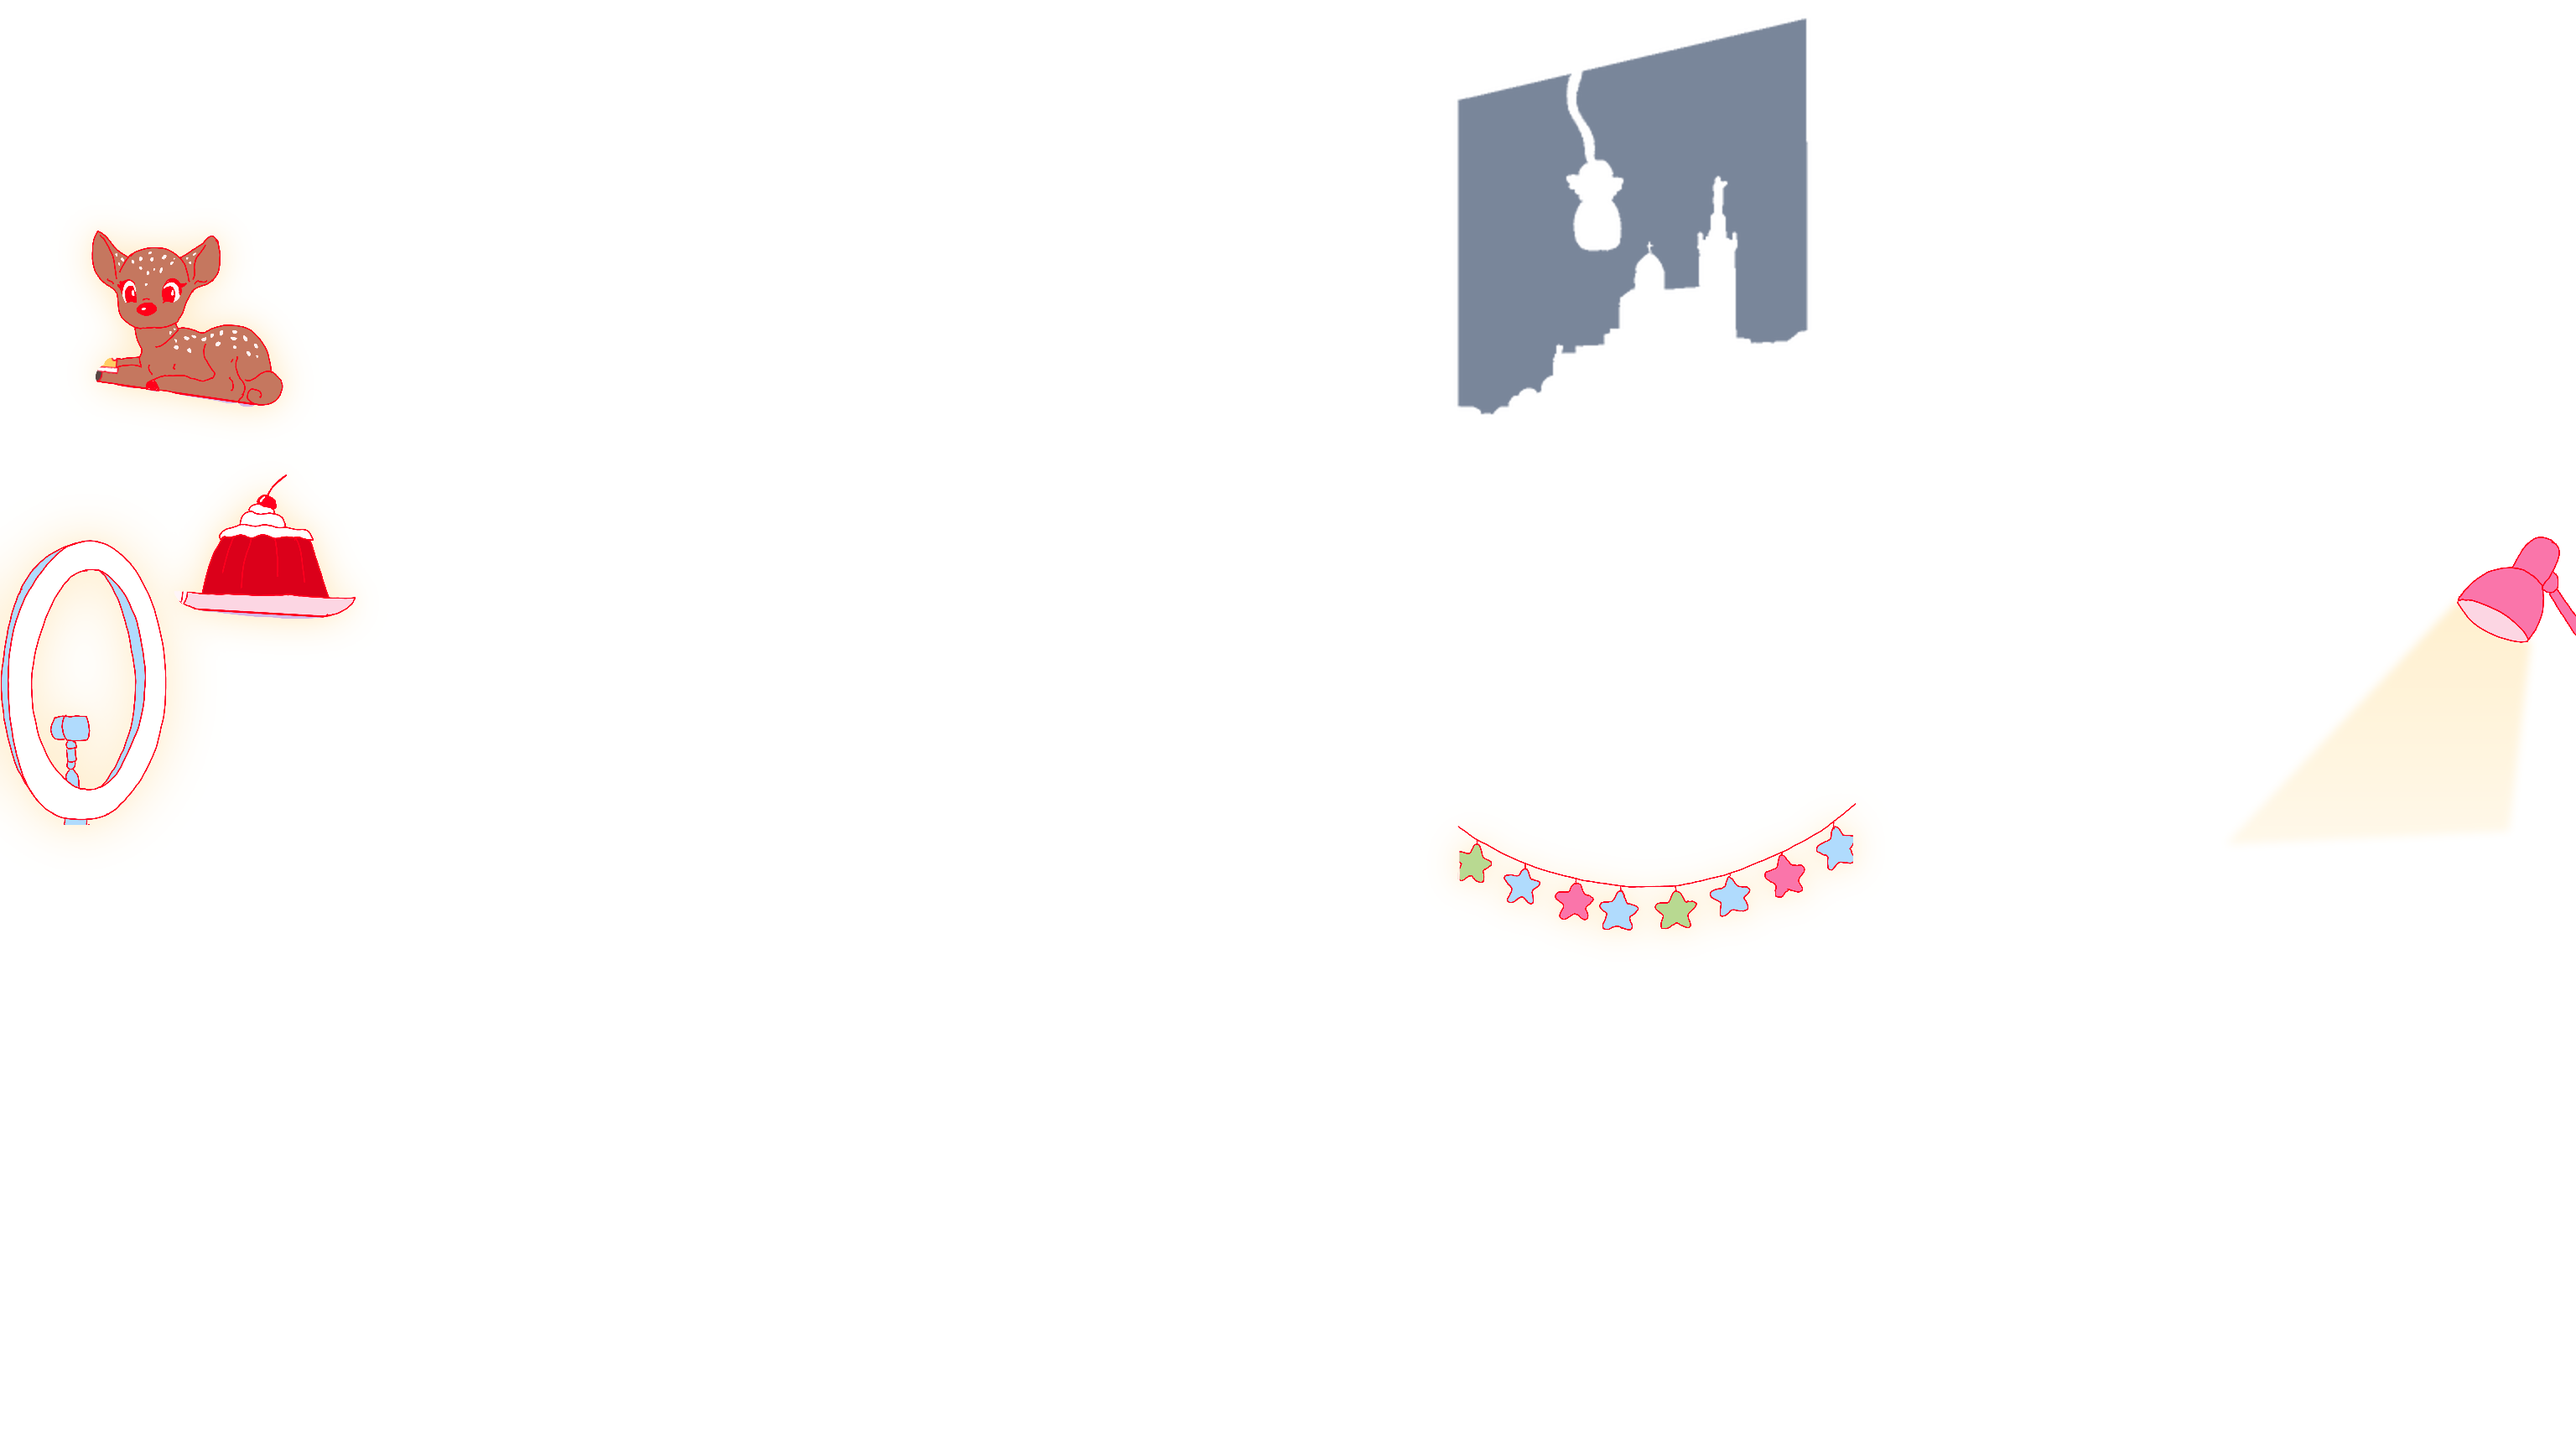
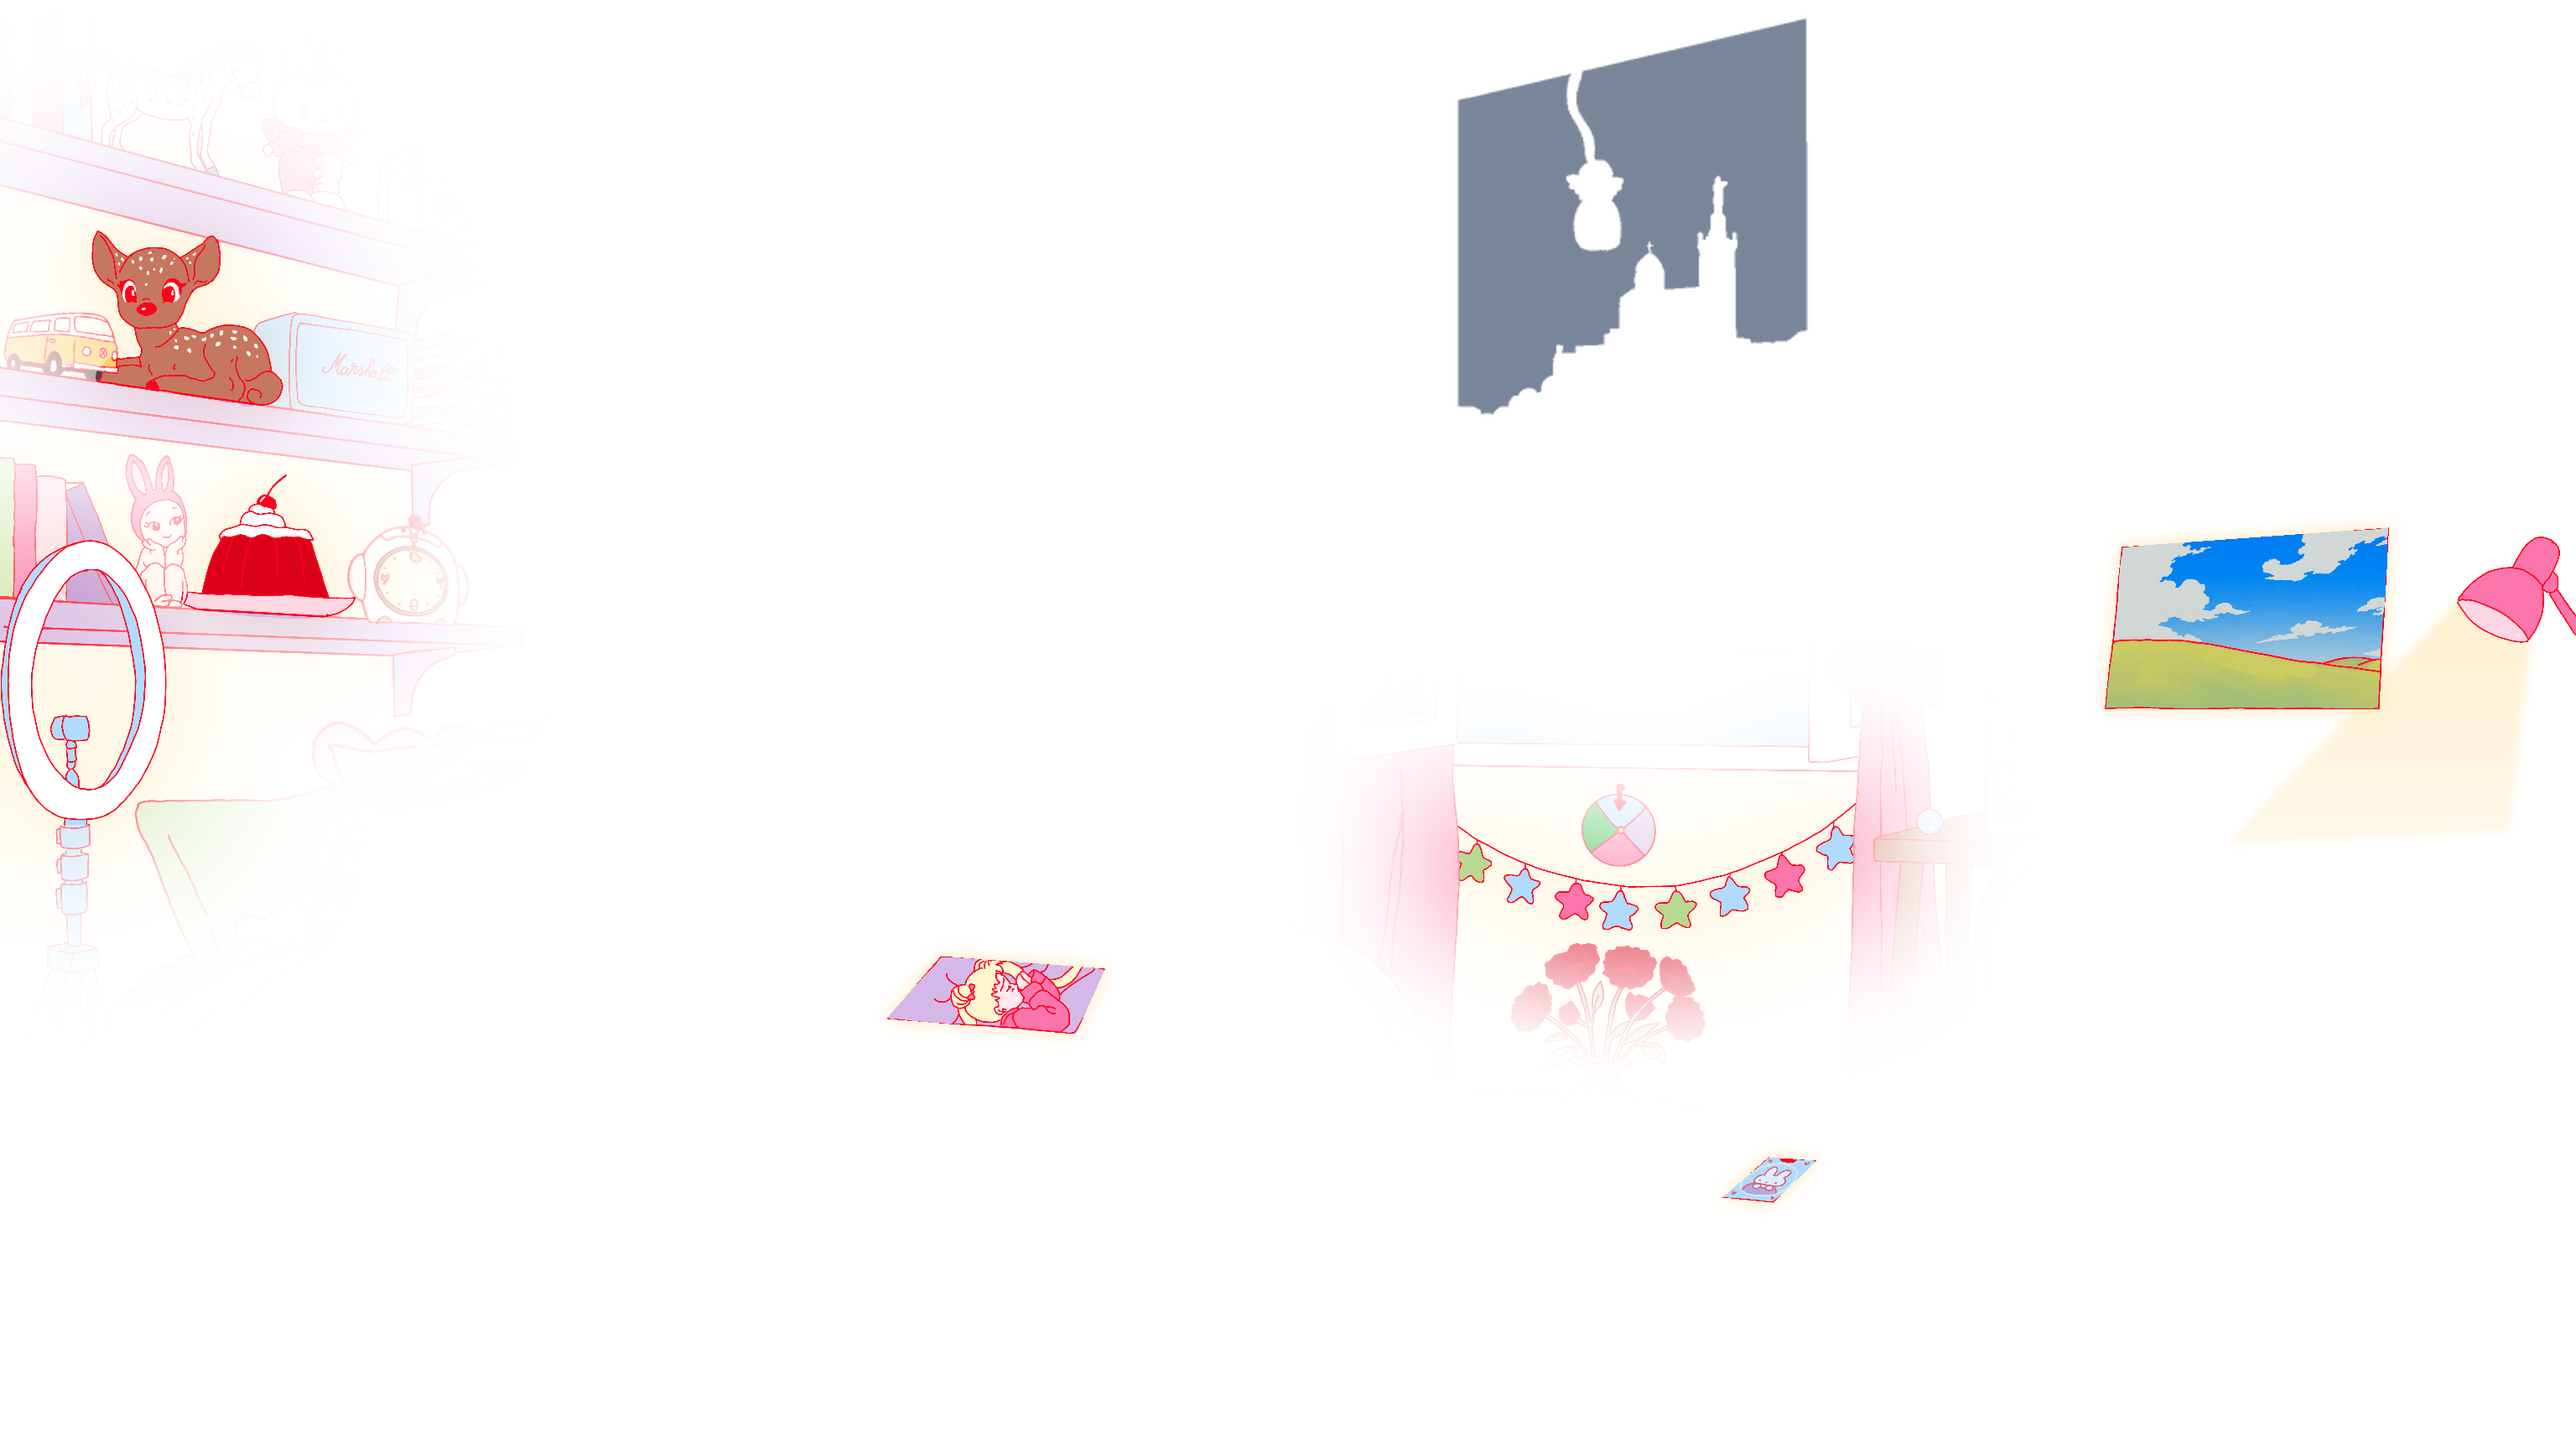
Élargir la lumière des lampes et rallumer les trois écrans en mode nuit

diff --git a/index.html b/index.html
@@ -236,13 +236,16 @@ html[data-theme="night"] #nana-glow-stars-layer .nana-phosphor-star {opacity:1!i
     html[data-theme="night"] .room-redraw-preview :is(#room-redraw-preview, #room-v2-underlay, #room-v2-ambient, #nana-wall-mirror, .poster-perspective-artworks, .poster-tape-layer, #paprika-butterfly) {
       filter: url(#room-v2-night-ink);
     }
+    html[data-theme="night"] #play-viewport.room-redraw-preview #room-v2-ambient {
+      filter: url(#room-v2-lit-objects);
+    }
     html[data-theme="night"] .room-redraw-preview #play-scene::before {
       content: "";
       position: absolute;
       inset: 0;
       z-index: 3;
       pointer-events: none;
-      background: url("assets/room-redraw/lumieres-nuit.webp") center / 100% 100% no-repeat;
+      background: url("assets/room-redraw/lumieres-nuit.webp?v=halos2") center / 100% 100% no-repeat;
     }
     /* Confine the outdoor drawings to the sky behind the skyline and chime. */
     .room-redraw-preview #window-life {
@@ -980,7 +983,13 @@ html body #work-desktop .desktop-folder .folder-tile.work-browser-tile{
  </div>
 </div>
           <svg data-room-v2-layer width="0" height="0" aria-hidden="true" style="position:absolute;pointer-events:none"><defs><filter id="room-v2-night-ink" color-interpolation-filters="sRGB" x="0%" y="0%" width="100%" height="100%">
-            <feColorMatrix values="-.035 .13 .065 0 .02745  -.09 .39 .11 0 .07059  -.17 .47 .27 0 .2  0 0 0 1 0"/>
+            <feColorMatrix values="-.055 .083 .040 0 .03529  -.10 .41 .105 0 .07451  -.23 .53 .36 0 .25490  0 0 0 1 0"/>
+          </filter>
+          <filter id="room-v2-lit-objects" x="0%" y="0%" width="100%" height="100%" color-interpolation-filters="sRGB">
+            <feColorMatrix values="-.055 .083 .040 0 .03529  -.10 .41 .105 0 .07451  -.23 .53 .36 0 .25490  0 0 0 1 0" result="night"/>
+            <feImage href="assets/room-redraw/portee-lampes.webp" x="0%" y="0%" width="100%" height="100%" preserveAspectRatio="none" result="spill"/>
+            <feComposite in="SourceGraphic" in2="spill" operator="in"/>
+            <feComposite in2="night" operator="atop"/>
           </filter><filter id="paprika-butterfly-ring" x="-50%" y="-50%" width="200%" height="200%" color-interpolation-filters="sRGB">
                 <feMorphology in="SourceAlpha" operator="dilate" radius="2" result="outer"/>
                 <feComposite in="outer" in2="SourceAlpha" operator="out" result="edge"/>
@@ -1142,7 +1151,7 @@ html body #work-desktop .desktop-folder .folder-tile.work-browser-tile{
 
 
 
-<script src="poster-fit.js?v=20261118-atelier" defer></script><script src="mirror-placement.js?v=20261118-miroir" defer></script><script src="flower-lamp-placement.js?v=20261118-nuit" defer></script>
+<script src="poster-fit.js?v=20261118-atelier" defer></script><script src="mirror-placement.js?v=20261118-miroir" defer></script><script src="flower-lamp-placement.js?v=20261118-halos" defer></script>
 <script src="fortune-cookie-placement.js?v=20261118-biscuit" defer></script>
 <script src="interactive-decor-outlines.js?v=20261106-unified-1" defer></script>
 <script src="glow-stars.js?v=20261118-etoiles-v2" defer></script>

diff --git a/flower-lamp-placement.js b/flower-lamp-placement.js
@@ -165,7 +165,7 @@ function mountWallDecoration(kind, redrawn) {
     const lampWidth=(Math.hypot(p[1][0]-p[0][0],p[1][1]-p[0][1])+Math.hypot(p[2][0]-p[3][0],p[2][1]-p[3][1]))/2;
     const lampHeight=(Math.hypot(p[3][0]-p[0][0],p[3][1]-p[0][1])+Math.hypot(p[2][0]-p[1][0],p[2][1]-p[1][1]))/2;
     wallLight.setAttribute('cx',lampCenter[0]);wallLight.setAttribute('cy',lampCenter[1]);
-    wallLight.setAttribute('rx',lampWidth*1.65);wallLight.setAttribute('ry',lampHeight*1.6);
+    wallLight.setAttribute('rx',lampWidth*(redrawn ? 2.55 : 1.65));wallLight.setAttribute('ry',lampHeight*(redrawn ? 2.5 : 1.6));
     const first=[p[0],p[1],p[3]];
     const second=[p[1],p[2],p[3]];
     // Overlap the shared diagonal slightly to close the antialiasing seam.
